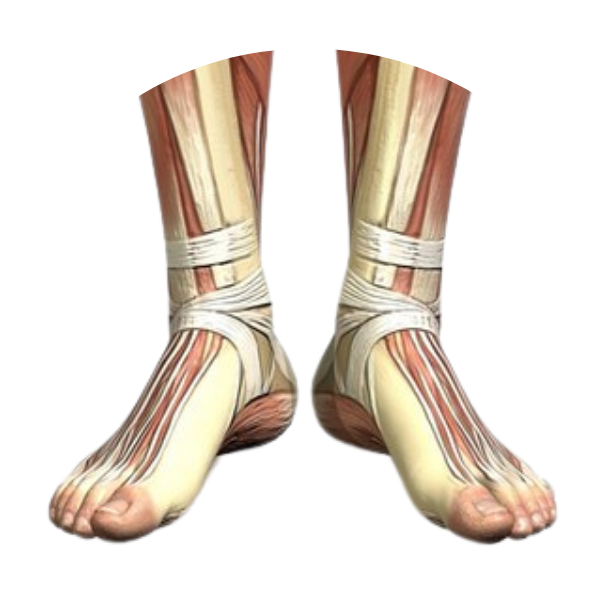
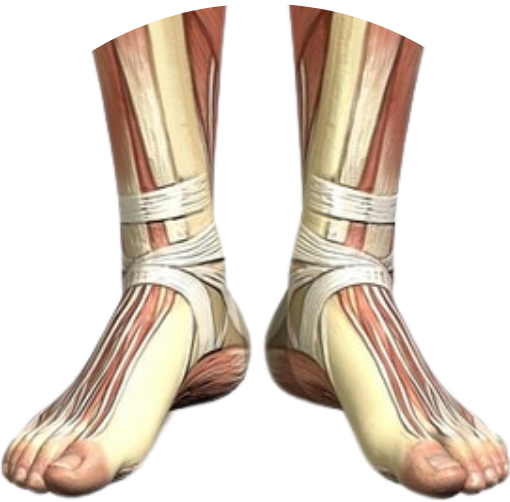
:sparkles: change ankle and remove unsused images

diff --git a/src/pages/Skeleton/Skeleton.scss b/src/pages/Skeleton/Skeleton.scss
@@ -27,7 +27,7 @@
       display: flex;
       align-items: center;
 
-      @media (max-width: 740px){
+      @media (max-width: 815px){
         width: 90%;
       }
     
@@ -36,8 +36,8 @@
         max-width: 650px;
         width: 75%;
 
-        @media (max-width: 740px){
-          width: 400px;
+        @media (max-width: 815px){
+          width: 300px;
         }
       }
 
@@ -50,9 +50,11 @@
         border-radius: 40%;
         outline: none;
 
-        @media (max-width: 740px){
-          bottom: 208px;
-          left: 176px;
+        @media (max-width: 815px){
+          width: 123px;
+          height: 125px;
+          bottom: 280px;
+          left: 135px;
         }
       
         &:hover{
@@ -68,6 +70,12 @@
           left: -2px;
           width: 150px;
           transition: transform 300ms ease-in-out;
+
+          @media (max-width: 815px){
+            top: 4px;
+            left: -2px;
+            width: 140px;
+          }
         }
       }
     
@@ -79,9 +87,11 @@
         left:250px;
         outline: none;
 
-        @media (max-width: 740px){
-          bottom: 208px;
-          left: 176px;
+        @media (max-width: 815px){background-color: red;
+          width: 120px;
+          height: 120px;
+          bottom: 120px;
+          left: 135px;
         }
       
         &:hover{
@@ -97,6 +107,12 @@
           left: 6px;
           width: 127px;
           transition: transform 300ms ease-in-out;
+
+          @media (max-width: 815px){
+            top: -20px;
+            left: 9px;
+            width: 103px;
+          }
         }
       }
 
@@ -112,9 +128,11 @@
         -webkit-border-radius: 200px 200px 0px 3px;
         outline: none;
 
-        @media (max-width: 740px){
-          bottom: 208px;
-          left: 176px;
+        @media (max-width: 815px){
+          width: 90px;
+          height: 85px;
+          bottom: 1px;
+          left: 100px;
         }
       
         &:hover{
@@ -126,10 +144,16 @@
       
         .ankle{
           position: absolute;
-          top: -8px;
-          left: -13px;
-          min-width: 158px;
+          top: 0px;
+          left: -3px;
+          width: 140px;
           transition: transform 300ms ease-in-out;
+
+          @media (max-width: 815px){
+            top: 3px;
+            left: 4px;
+            width: 83px;
+          }
         }
       }
       

diff --git a/src/pages/Skeleton/Skeleton.tsx b/src/pages/Skeleton/Skeleton.tsx
@@ -1,14 +1,3 @@
-import { Link } from 'react-router-dom';
-import { TransformWrapper, TransformComponent, ReactZoomPanPinchRef } from "react-zoom-pan-pinch";
-import './Skeleton.scss';
-import { useRef } from 'react';
-import skeletonPng from '../../assets/skeleton.png';
-import detailedHip from '../../assets/detailedHip.png';
-import detailedKnee from '../../assets/detailedKnee.png';
-import detailedAnkle from '../../assets/detailedAnkle.png';
-import knee from '../../assets/knee.png';
-import hip from '../../assets/hip.png';
-import ankle from '../../assets/ankle.png';
 import { Button } from "@/components/ui/button";
 import {
   Dialog,
@@ -26,6 +15,19 @@ import {
 } from "@/components/ui/accordion";
 import { Separator } from '@/components/ui/separator';
 
+import { Link } from 'react-router-dom';
+import { TransformWrapper, TransformComponent, ReactZoomPanPinchRef } from "react-zoom-pan-pinch";
+import { useRef } from 'react';
+
+import skeletonPng from '../../assets/skeleton.png';
+import detailedHip from '../../assets/detailedHip.png';
+import detailedKnee from '../../assets/detailedKnee.png';
+import detailedAnkle from '../../assets/detailedAnkle.png';
+import knee from '../../assets/knee.png';
+import hip from '../../assets/hip.png';
+import ankle from '../../assets/ankle.png';
+
+import './Skeleton.scss';
 
 const Skeleton = () => {
   const transformComponentRef = useRef<ReactZoomPanPinchRef | null>(null);
